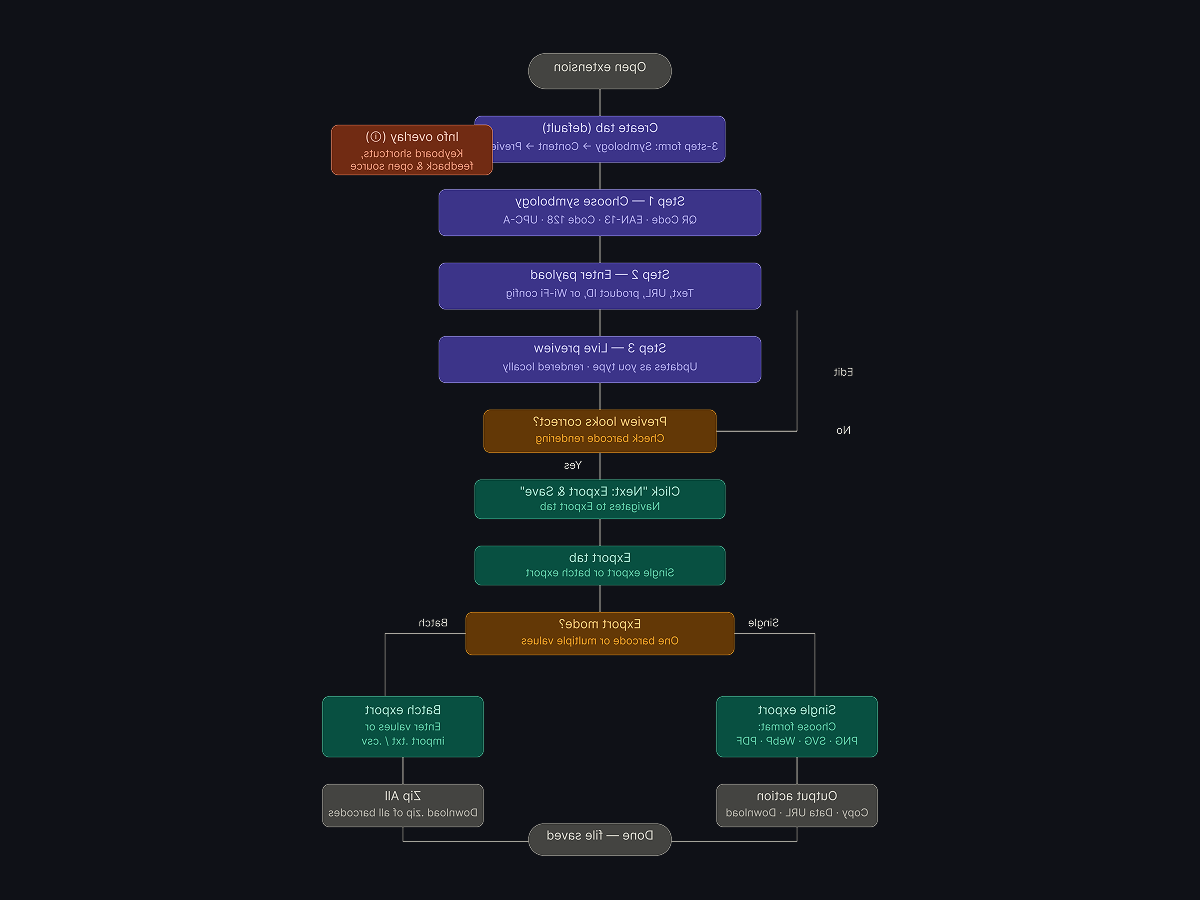
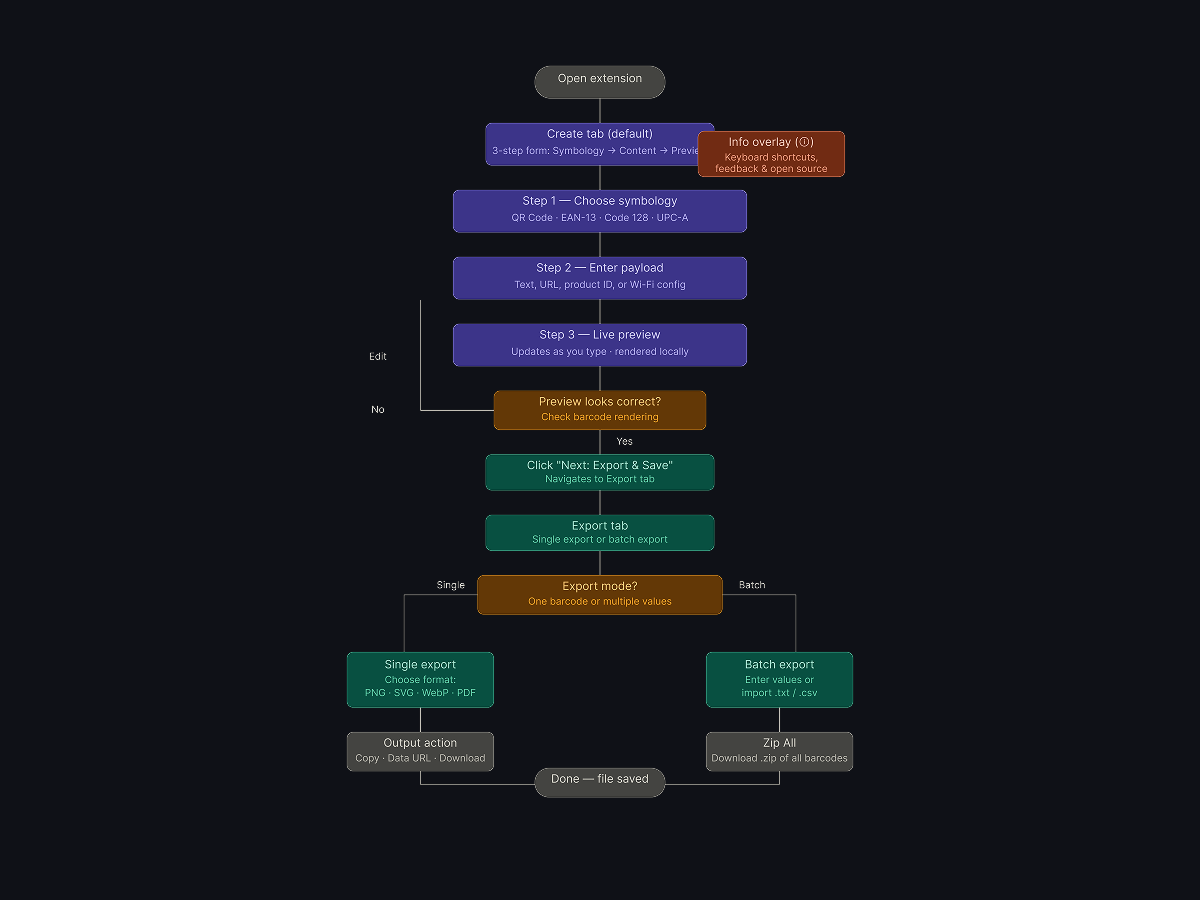
images added

Changed region(s): [[0.2467, 0.0311, 0.74, 0.9644]]

diff --git a/case-studies/barcode-studio-case-study.html b/case-studies/barcode-studio-case-study.html
@@ -386,7 +386,7 @@ footer{padding:60px 0 48px;border-top:1px solid var(--line);text-align:center}
     <div class="hero-img">
       <div class="img-ph ph-hero" style="border-radius:14px">
         <img
-          src="assets/img/Overview - Barcode.png"
+          src="/assets/img/Overview - Barcode.png"
           alt="Barcode Studio — Create tab dark and light mode side by side"
           loading="eager"/>
         <div class="ph-inner">
@@ -593,7 +593,7 @@ footer{padding:60px 0 48px;border-top:1px solid var(--line);text-align:center}
       </div>
       <div class="img-ph ph-wide" style="border-radius:0;border:none">
         <img
-          src="https://raw.githubusercontent.com/sana-ishaq-design/barcode-studio-ux/1018befc57b10455e6e2d55860a1378d44d6e87c/Extension/userflow.png"
+          src="/assets/img/Userflow - Barcode.png"
           alt="Barcode Studio complete user flow diagram"
           loading="lazy"/>
         <div class="ph-inner">
@@ -678,7 +678,7 @@ footer{padding:60px 0 48px;border-top:1px solid var(--line);text-align:center}
         </div>
         <div class="img-ph ph-2col" style="border-radius:0;border:none">
           <img
-            src="https://raw.githubusercontent.com/sana-ishaq-design/barcode-studio-ux/1429db339865197a1b4e9072bdcd4d864e16d8d6/Extension/Create%20shot%20Dark%20%26%20Light.png"
+            src="/assets/img/Create Dark - Barcode.png"
             alt="Barcode Studio Create tab — dark mode"
             loading="lazy"/>
           <div class="ph-inner">
@@ -695,8 +695,11 @@ footer{padding:60px 0 48px;border-top:1px solid var(--line);text-align:center}
           <div class="sf-badge">Light mode</div>
         </div>
         <div class="img-ph ph-2col" style="border-radius:0;border:none">
+          <img
+            src="/assets/img/Create Light - Barcode.png"
+            alt="Barcode Studio Create tab — light mode"
+            loading="lazy"/>
           <div class="ph-inner">
-            <div class="ph-icon"><svg width="12" height="12" viewBox="0 0 24 24" fill="none" stroke="currentColor" stroke-width="1.5"><rect x="3" y="3" width="7" height="7"/><rect x="14" y="3" width="7" height="7"/><rect x="3" y="14" width="7" height="7"/></svg></div>
             <div class="ph-label">Create Tab Light</div>
             <div class="ph-sub">Upload light mode screenshot</div>
           </div>
@@ -722,7 +725,7 @@ footer{padding:60px 0 48px;border-top:1px solid var(--line);text-align:center}
         </div>
         <div class="img-ph ph-2col" style="border-radius:0;border:none">
           <img
-            src="https://raw.githubusercontent.com/sana-ishaq-design/barcode-studio-ux/0a97d5cf0c7b95d90e29284989c851758489abcc/Dark%20%26%20Light/Export%20shot%20Dark%20%26%20light.png"
+            src="/assets/img/Export Dark - Barcde.png"
             alt="Barcode Studio Export tab — dark mode"
             loading="lazy"/>
           <div class="ph-inner">
@@ -739,6 +742,10 @@ footer{padding:60px 0 48px;border-top:1px solid var(--line);text-align:center}
           <div class="sf-badge">Light mode</div>
         </div>
         <div class="img-ph ph-2col" style="border-radius:0;border:none">
+          <img
+            src="/assets/img/Export Light - Barcode.png"
+            alt="Barcode Studio Create tab — light mode"
+            loading="lazy"/>
           <div class="ph-inner">
             <div class="ph-icon"><svg width="12" height="12" viewBox="0 0 24 24" fill="none" stroke="currentColor" stroke-width="1.5"><path d="M21 15v4a2 2 0 01-2 2H5a2 2 0 01-2-2v-4M17 8l-5-5-5 5M12 3v12"/></svg></div>
             <div class="ph-label">Export Tab Light</div>
@@ -765,7 +772,7 @@ footer{padding:60px 0 48px;border-top:1px solid var(--line);text-align:center}
         </div>
         <div class="img-ph ph-2col" style="border-radius:0;border:none">
           <img
-            src="https://raw.githubusercontent.com/sana-ishaq-design/barcode-studio-ux/1018befc57b10455e6e2d55860a1378d44d6e87c/Extension/About%20shot%20Dark%20%26%20Light.png"
+            src="/assets/img/About Dark - Barcode.png"
             alt="Barcode Studio About overlay — dark mode"
             loading="lazy"/>
           <div class="ph-inner">
@@ -782,6 +789,10 @@ footer{padding:60px 0 48px;border-top:1px solid var(--line);text-align:center}
           <div class="sf-badge">Light mode</div>
         </div>
         <div class="img-ph ph-2col" style="border-radius:0;border:none">
+          <img
+            src="/assets/img/About Light - Barcode.png"
+            alt="Barcode Studio Create tab — light mode"
+            loading="lazy"/>
           <div class="ph-inner">
             <div class="ph-icon"><svg width="12" height="12" viewBox="0 0 24 24" fill="none" stroke="currentColor" stroke-width="1.5"><circle cx="12" cy="12" r="9"/><path d="M12 8v4M12 16h.01"/></svg></div>
             <div class="ph-label">About Overlay Light</div>
@@ -810,10 +821,11 @@ footer{padding:60px 0 48px;border-top:1px solid var(--line);text-align:center}
       <div class="ds-card reveal">
         <div class="ds-hdr">Typography — Popup Scale</div>
         <div class="img-ph ph-med" style="border-radius:0 0 10px 10px;border:none">
+          <img
+            src="/assets/img/typography - Barcode.png"
+            alt="Barcode Studio typography — dark and light tokens"
+            loading="lazy"/>
           <div class="ph-inner">
-            <div class="ph-icon"><svg width="12" height="12" viewBox="0 0 24 24" fill="none" stroke="currentColor" stroke-width="1.5"><path d="M4 7V4h16v3M9 20h6M12 4v16"/></svg></div>
-            <div class="ph-label">Typography System</div>
-            <div class="ph-sub">Upload typography screenshot</div>
           </div>
         </div>
       </div>
@@ -821,7 +833,7 @@ footer{padding:60px 0 48px;border-top:1px solid var(--line);text-align:center}
         <div class="ds-hdr">Colour Palette — Dark &amp; Light Tokens</div>
         <div class="img-ph ph-med" style="border-radius:0 0 10px 10px;border:none">
           <img
-            src="https://raw.githubusercontent.com/sana-ishaq-design/barcode-studio-ux/1018befc57b10455e6e2d55860a1378d44d6e87c/Extension/color%20palette%20shot.png"
+            src="/assets/img/color palette - barcode.png"
             alt="Barcode Studio colour system — dark and light tokens"
             loading="lazy"/>
           <div class="ph-inner">
@@ -832,12 +844,13 @@ footer{padding:60px 0 48px;border-top:1px solid var(--line);text-align:center}
         </div>
       </div>
       <div class="ds-card reveal">
-        <div class="ds-hdr">Component Library — All States</div>
+        <div class="ds-hdr"> Developer's Handoff — Documentation</div>
         <div class="img-ph ph-med" style="border-radius:0 0 10px 10px;border:none">
           <div class="ph-inner">
-            <div class="ph-icon"><svg width="12" height="12" viewBox="0 0 24 24" fill="none" stroke="currentColor" stroke-width="1.5"><rect x="3" y="3" width="8" height="8" rx="1"/><rect x="13" y="3" width="8" height="8" rx="1"/><rect x="3" y="13" width="8" height="8" rx="1"/><rect x="13" y="13" width="8" height="8" rx="1"/></svg></div>
-            <div class="ph-label">Component Library</div>
-            <div class="ph-sub">Upload components screenshot</div>
+            <img
+            src="/assets/img/documentation - Barcode.png"
+            alt="Barcode Studio developer's handoff — documentation"
+            loading="lazy"/>
           </div>
         </div>
       </div>
@@ -845,9 +858,10 @@ footer{padding:60px 0 48px;border-top:1px solid var(--line);text-align:center}
         <div class="ds-hdr">Dark / Light Theme Side-by-Side</div>
         <div class="img-ph ph-med" style="border-radius:0 0 10px 10px;border:none">
           <div class="ph-inner">
-            <div class="ph-icon"><svg width="12" height="12" viewBox="0 0 24 24" fill="none" stroke="currentColor" stroke-width="1.5"><circle cx="12" cy="12" r="4"/><path d="M12 2v2M12 20v2M4.93 4.93l1.41 1.41M17.66 17.66l1.41 1.41M2 12h2M20 12h2M4.93 19.07l1.41-1.41M17.66 6.34l1.41-1.41"/></svg></div>
-            <div class="ph-label">Theme Comparison</div>
-            <div class="ph-sub">Upload theme tokens screenshot</div>
+            <img
+            src="/assets/img/Overview - Barcode.png"
+            alt="Barcode Studio screens — dark and light"
+            loading="lazy"/>
           </div>
         </div>
       </div>
@@ -934,19 +948,14 @@ footer{padding:60px 0 48px;border-top:1px solid var(--line);text-align:center}
         <div class="link-sub">Live extension — install and use</div>
         <span class="link-arrow">↗ Open</span>
       </a>
-      <a class="link-card reveal" href="https://www.figma.com/design/bdq8xwcSz7Xj8HpFICVIPk/Barcode-Studio" target="_blank" rel="noopener">
-        <span class="link-icon">◫</span>
-        <div class="link-title">Figma Source</div>
-        <div class="link-sub">Full design system and components</div>
-        <span class="link-arrow">↗ Open in Figma</span>
-      </a>
+      
       <a class="link-card reveal" href="https://github.com/zfhassaan" target="_blank" rel="noopener">
         <span class="link-icon">◎</span>
         <div class="link-title">Developer</div>
         <div class="link-sub">@zfhassaan on GitHub</div>
         <span class="link-arrow">↗ Open</span>
       </a>
-      <a class="link-card reveal" href="https://github.com/sana-ishaq-design/barcode-studio-ux/blob/main/Extension/barcode_studio_ux_portfolio.pdf" target="_blank" rel="noopener">
+      <a class="link-card reveal" href="/assets/barcode_studio_ux_decision.pdf" target="_blank" rel="noopener">
         <span class="link-icon">◳</span>
         <div class="link-title">UX Decisions PDF</div>
         <div class="link-sub">Full decision rationale document</div>

diff --git a/case-studies/case-studies.html b/case-studies/case-studies.html
@@ -655,18 +655,7 @@ footer { border-top: 0.5px solid var(--border); padding: 2rem 0; margin-top: 1re
   </div>
 </nav> -->
 
-<!-- ── CREDIBILITY STRIP (static) ── -->
-<div class="credibility-strip">
-  <div class="strip-inner">
-    <div class="strip-item"><strong>12</strong>&nbsp;Case Studies</div>
-    <span class="strip-sep">•</span>
-    <div class="strip-item"><strong>5+</strong>&nbsp;Years Experience</div>
-    <span class="strip-sep">•</span>
-    <div class="strip-item"><strong>200+</strong>&nbsp;Projects Delivered</div>
-    <span class="strip-sep">•</span>
-    <div class="strip-item"><strong>8</strong>&nbsp;Countries Served</div>
-  </div>
-</div>
+
 
 <!-- ── OUTCOMES MARQUEE ── -->
 <div class="marquee-section">
@@ -753,6 +742,19 @@ footer { border-top: 0.5px solid var(--border); padding: 2rem 0; margin-top: 1re
     <span class="marquee-dot"></span>
     <span class="marquee-item metric">4.8★ App Store</span>
     <span class="marquee-dot"></span>
+  </div>
+</div>
+
+<!-- ── CREDIBILITY STRIP (static) ── -->
+<div class="credibility-strip">
+  <div class="strip-inner">
+    <div class="strip-item"><strong>12</strong>&nbsp;Case Studies</div>
+    <span class="strip-sep">•</span>
+    <div class="strip-item"><strong>5+</strong>&nbsp;Years Experience</div>
+    <span class="strip-sep">•</span>
+    <div class="strip-item"><strong>200+</strong>&nbsp;Projects Delivered</div>
+    <span class="strip-sep">•</span>
+    <div class="strip-item"><strong>8</strong>&nbsp;Countries Served</div>
   </div>
 </div>
 
@@ -906,7 +908,7 @@ footer { border-top: 0.5px solid var(--border); padding: 2rem 0; margin-top: 1re
               Duration:&nbsp;<strong>2 Weeks</strong>
             </div>
           </div>
-          <a href="https://sana-ishaq-design.github.io/case-studies/utworx-case-study.html" class="cta-link">View Case Study <svg class="cta-arrow" width="16" height="16" viewBox="0 0 16 16" fill="none"><path d="M3 8h10M9 4l4 4-4 4" stroke="currentColor" stroke-width="1.5" stroke-linecap="round" stroke-linejoin="round"/></svg></a>
+          <a href="https://sana-ishaq-design.github.io/case-studies/subscribe-me-case-study.html" class="cta-link">View Case Study <svg class="cta-arrow" width="16" height="16" viewBox="0 0 16 16" fill="none"><path d="M3 8h10M9 4l4 4-4 4" stroke="currentColor" stroke-width="1.5" stroke-linecap="round" stroke-linejoin="round"/></svg></a>
         </div>
       </div>
 
@@ -935,8 +937,8 @@ footer { border-top: 0.5px solid var(--border); padding: 2rem 0; margin-top: 1re
         </div>
         <div class="proj-content">
           <div class="proj-cats"><span>B2C SAAS</span> · <span>MOBILE APP</span> · UAE</div>
-          <h3 class="proj-title">Built a car subscription platform from zero to 100,000+ downloads across the UAE.</h3>
-          <p class="proj-desc">No digital channel existed. Designed the full production UI, booking flow, checkout hierarchy, and end-to-end design system across 6 agile sprints.</p>
+          <h3 class="proj-title">Contributing to a Car Subscription Platform That Reached 100K+ Downloads</h3>
+          <p class="proj-desc">A car subscription platform built to simplify vehicle browsing, booking, and management for customers across the UAE. I joined the project during delivery, contributing production-ready UI designs, user flows, and design system components across multiple agile sprints.</p>
           <div class="proj-metrics">
             <div>
               <div class="proj-metric-val">100K+</div>
@@ -950,11 +952,11 @@ footer { border-top: 0.5px solid var(--border); padding: 2rem 0; margin-top: 1re
           <div class="card-meta">
             <div class="card-meta-item">
               <svg width="12" height="12" viewBox="0 0 12 12" fill="none"><circle cx="6" cy="4" r="2" stroke="currentColor" stroke-width="1.2"/><path d="M2 10.5c0-2.2 1.8-4 4-4s4 1.8 4 4" stroke="currentColor" stroke-width="1.2" stroke-linecap="round"/></svg>
-              Role:&nbsp;<strong>End-to-End UX / UI</strong>
+              Role:&nbsp;<strong>UI Designer</strong>
             </div>
             <div class="card-meta-item">
               <svg width="12" height="12" viewBox="0 0 12 12" fill="none"><circle cx="6" cy="6" r="4.5" stroke="currentColor" stroke-width="1.2"/><path d="M6 3.5V6l1.8 1.4" stroke="currentColor" stroke-width="1.2" stroke-linecap="round"/></svg>
-              Duration:&nbsp;<strong>3 Months</strong>
+              Duration:&nbsp;<strong>6 Months</strong>
             </div>
           </div>
           <a href="#" class="cta-link">View Case Study <svg class="cta-arrow" width="16" height="16" viewBox="0 0 16 16" fill="none"><path d="M3 8h10M9 4l4 4-4 4" stroke="currentColor" stroke-width="1.5" stroke-linecap="round" stroke-linejoin="round"/></svg></a>

diff --git a/index.html b/index.html
@@ -367,8 +367,7 @@
           <div>
             <div class="cs-tag">B2C SaaS · Mobile App</div>
             <h3>
-              Built a car subscription platform from zero to 100,000+ downloads
-              across the UAE
+              Helping deliver a car subscription platform that reached 100,000+ downloads across the UAE
             </h3>
             <div class="pso">
               <div class="pso-row">
@@ -395,8 +394,7 @@
                 <div>
                   <div class="pso-lbl">Solution</div>
                   <div class="pso-txt">
-                    Designed production UI, booking flow, checkout hierarchy and
-                    design system.
+                  Contributed production UI, booking experiences, checkout flows, and design system components across multiple agile sprints.
                   </div>
                 </div>
               </div>